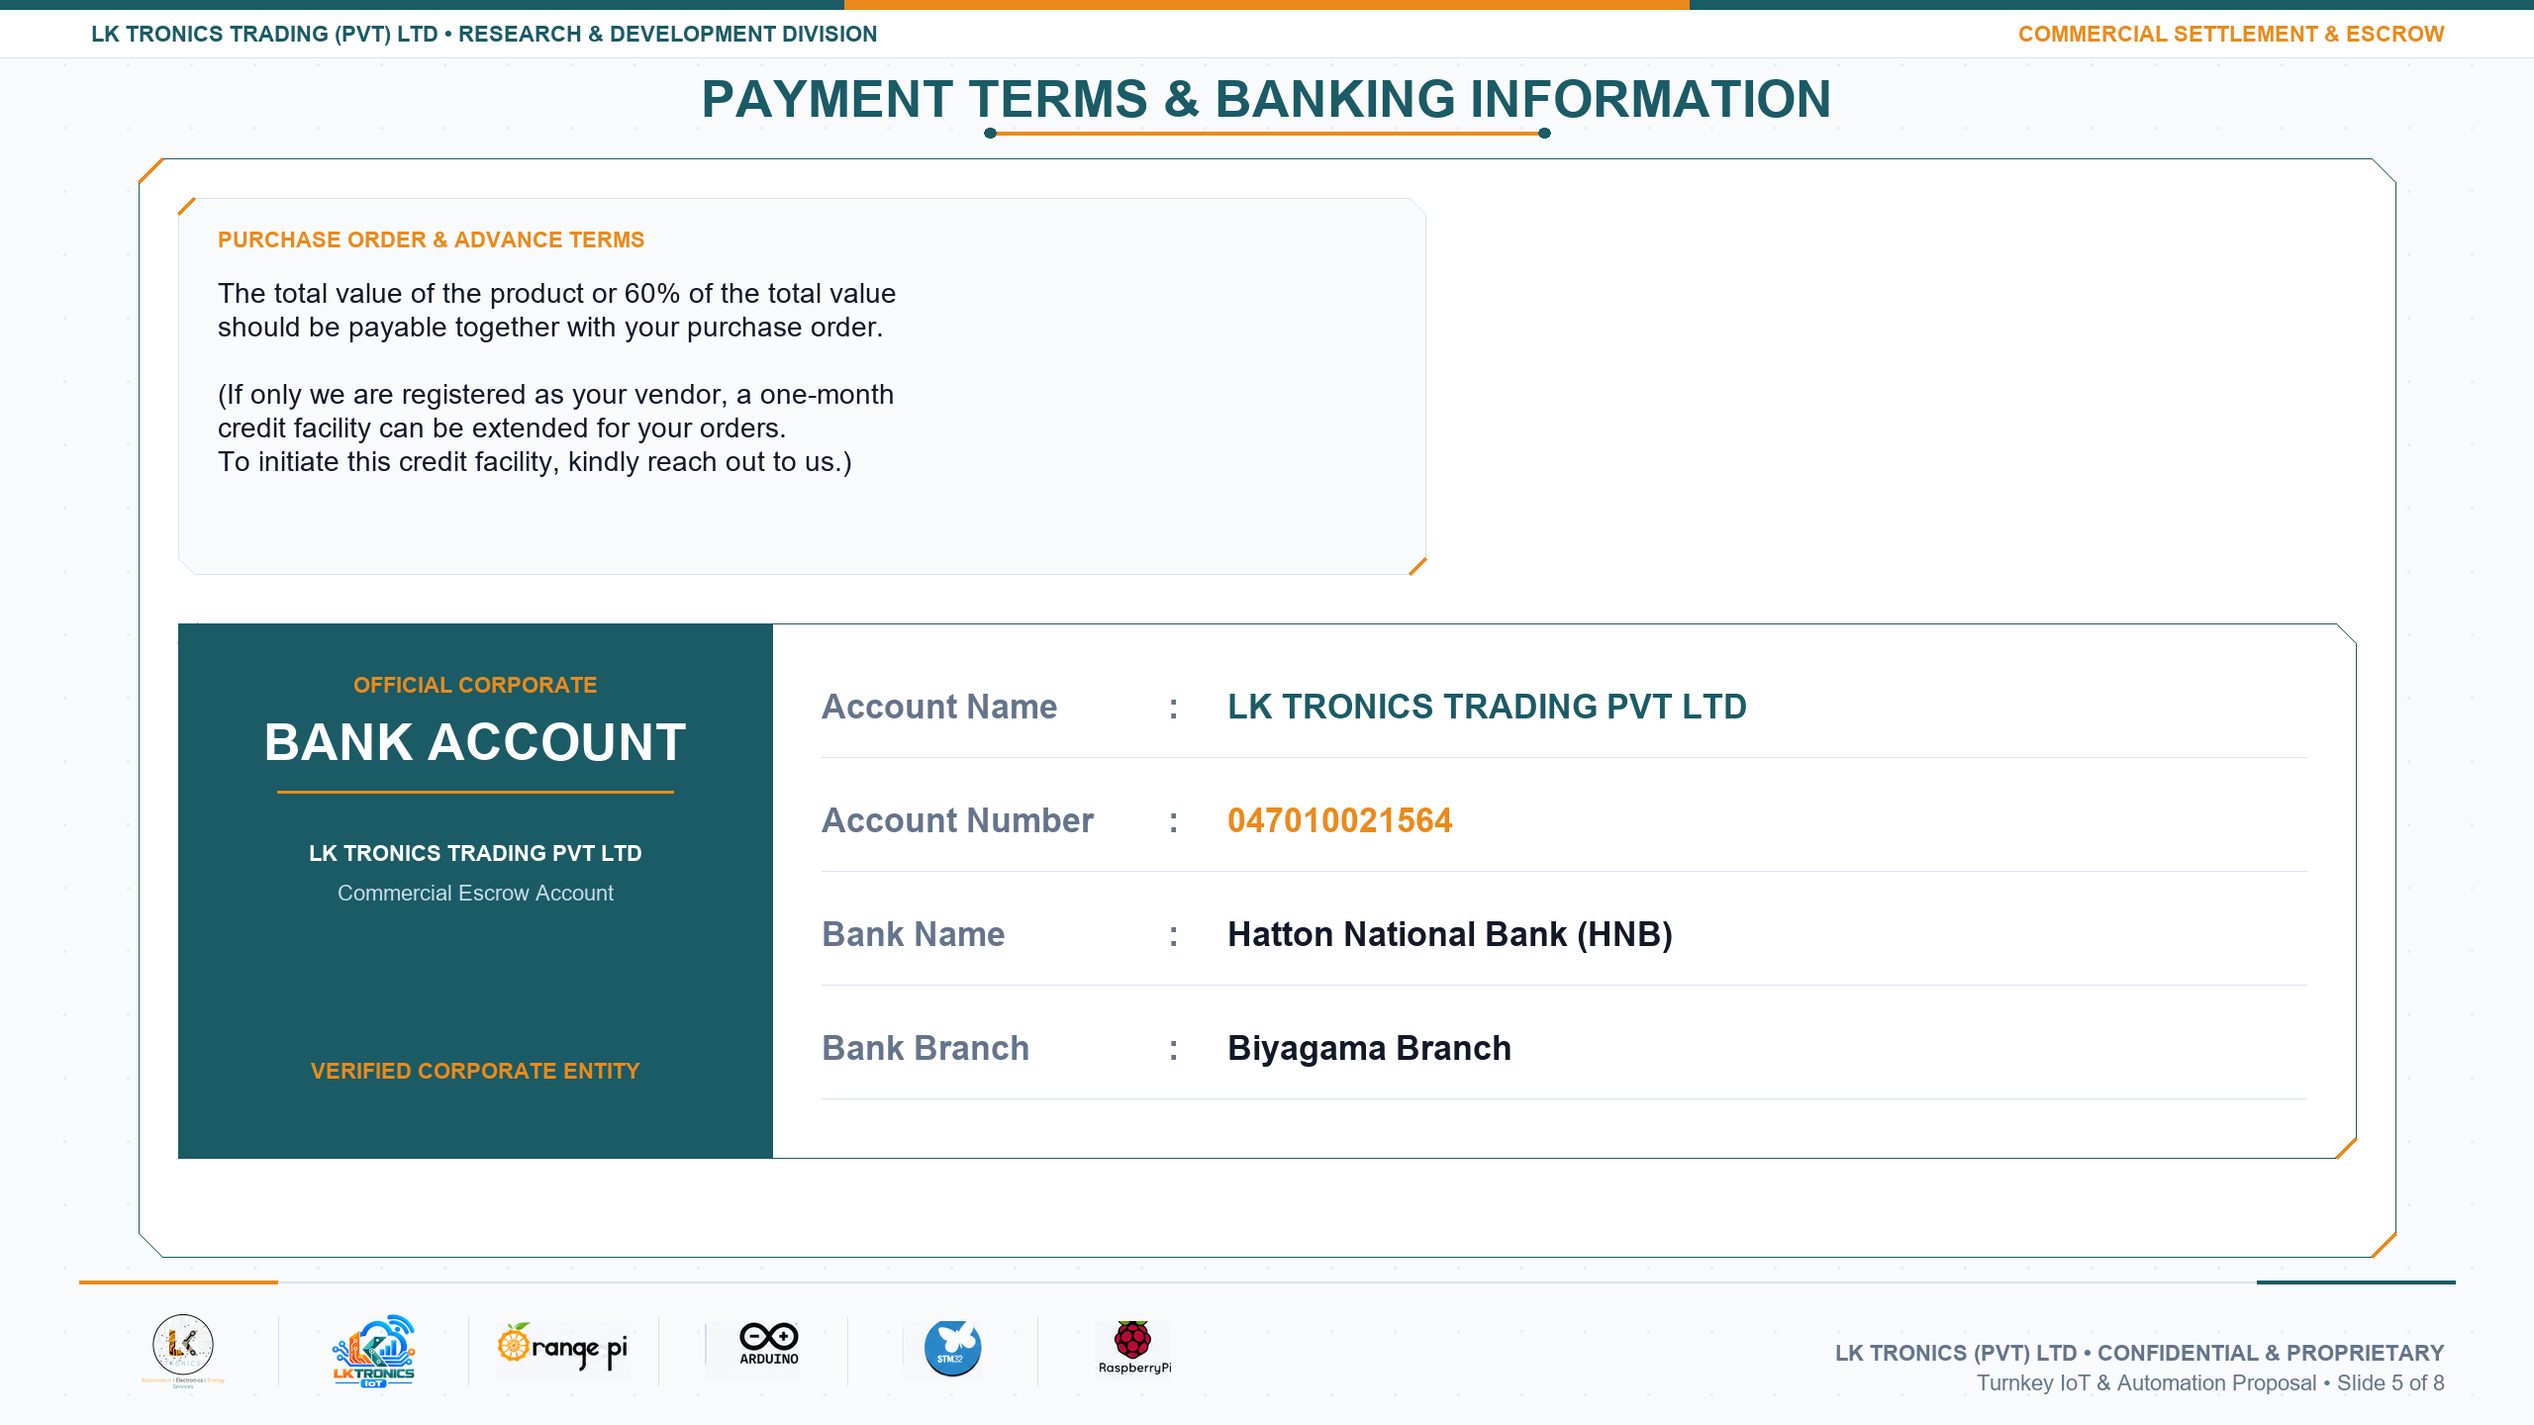
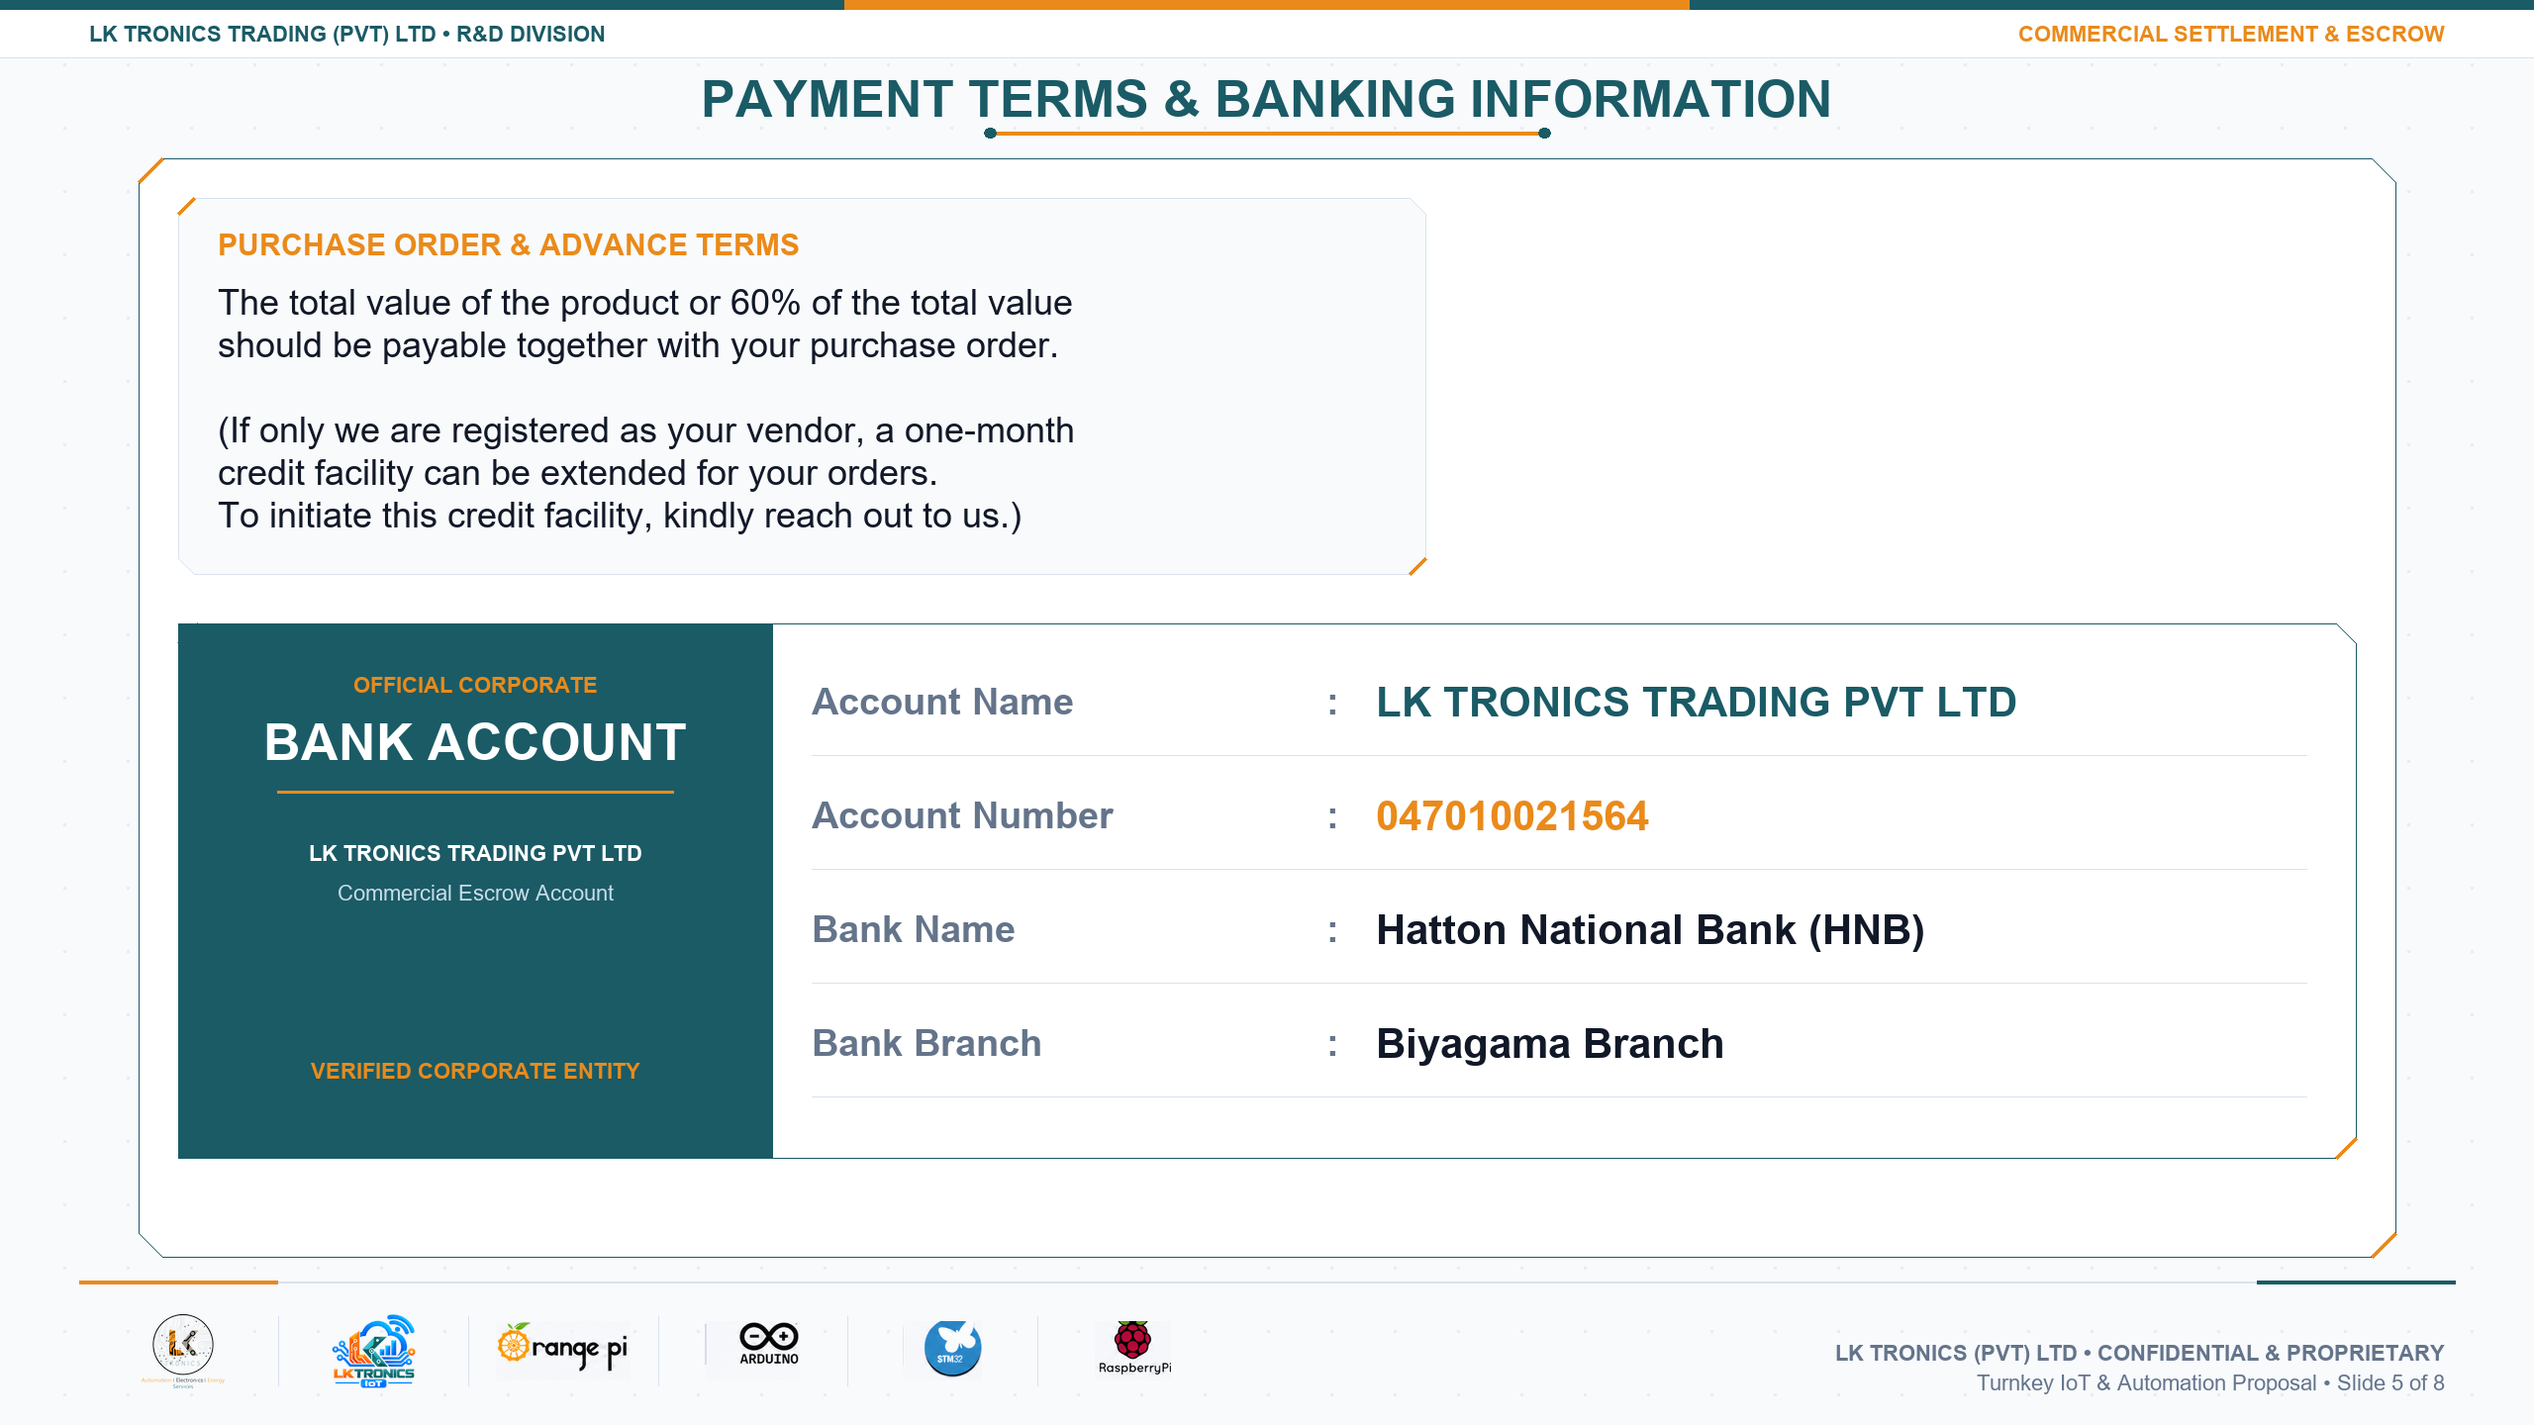
feat(proposal): match font size of Slide 1 cover and Slide 5 bank to 22pt Terms standard

diff --git a/src/lib/rdQuotationPdfGenerator.ts b/src/lib/rdQuotationPdfGenerator.ts
@@ -1036,27 +1036,39 @@ async function generateProjectProposalPdf(
 
   // 2. Prepared By - Removed from cover/main page per user requirement
 
-  // 3. Quotation To / Client Details (Center Column: X=190.5mm, Baseline Y=137.0mm)
+  // 3. Quotation To / Client Details (Center Column: X=190.5mm, Prominent 22pt bold matching Terms page)
   const quoToText = data.quotationTo || "Super Administrator";
+  let clientFontSize = 22.0;
   doc.setFont("helvetica", "bold");
-  doc.setFontSize(14);
+  doc.setFontSize(clientFontSize);
+  let quoToLines = doc.splitTextToSize(quoToText, 160.0);
+  if (Array.isArray(quoToLines) && quoToLines.length > 2) {
+    clientFontSize = 19.0;
+    doc.setFontSize(clientFontSize);
+    quoToLines = doc.splitTextToSize(quoToText, 160.0);
+  }
   doc.setTextColor(LK_SLATE[0], LK_SLATE[1], LK_SLATE[2]);
-  const quoToLines = doc.splitTextToSize(quoToText, 160.0);
-  doc.text(quoToLines, 190.5, 137.0, { lineHeightFactor: 1.25 });
+  doc.text(quoToLines, 190.5, 137.5, { lineHeightFactor: 1.22 });
 
-  // 4. Prepared Date (Center Column, Bottom Left: X=190.5mm, Baseline Y=180.0mm)
+  // 4. Prepared Date (Center Column, Bottom Left: X=190.5mm, Prominent 21pt bold)
   doc.setFont("helvetica", "bold");
-  doc.setFontSize(13.5);
+  doc.setFontSize(21.0);
   doc.setTextColor(LK_SLATE[0], LK_SLATE[1], LK_SLATE[2]);
   doc.text(data.preparedDate || "—", 190.5, 180.0);
 
-  // 5. Validity Period (Center Column, Bottom Right: X=273.8mm, Baseline Y=180.0mm)
+  // 5. Validity Period (Center Column, Bottom Right: X=273.8mm, Prominent 21pt bold)
   const valDays = data.validityDays ? `${data.validityDays} Days` : "4 Days";
   const expireStr = data.expireDate ? ` (Until ${data.expireDate})` : "";
+  const fullValText = `${valDays}${expireStr}`;
   doc.setFont("helvetica", "bold");
-  doc.setFontSize(13.5);
+  let valFontSize = 21.0;
+  doc.setFontSize(valFontSize);
+  if (doc.getTextWidth(fullValText) > 85.0) {
+    valFontSize = 18.5;
+    doc.setFontSize(valFontSize);
+  }
   doc.setTextColor(LK_ORANGE[0], LK_ORANGE[1], LK_ORANGE[2]);
-  doc.text(`${valDays}${expireStr}`, 273.8, 180.0);
+  doc.text(fullValText, 273.8, 180.0);
 
   // ==========================================
   // SLIDE 2: SYSTEM OVERVIEW & INTRODUCTION
@@ -1704,18 +1716,18 @@ async function generateProjectProposalPdf(
   }
 
   if (advancePercent !== 60) {
-    // Redraw the PO text box with custom percentage matching exact slide card coordinates
+    // Redraw the PO text box with custom percentage matching exact slide card coordinates (enlarged font)
     doc.setFillColor(248, 250, 252);
-    doc.rect(38.0, 42.0, 244.0, 70.0, "F");
+    doc.rect(38.0, 42.0, 244.0, 72.0, "F");
     doc.setFont("helvetica", "bold");
-    doc.setFontSize(14.0);
+    doc.setFontSize(20.0);
     doc.setTextColor(LK_ORANGE[0], LK_ORANGE[1], LK_ORANGE[2]);
-    doc.text("PURCHASE ORDER & ADVANCE TERMS", 44.0, 48.0);
+    doc.text("PURCHASE ORDER & ADVANCE TERMS", 44.0, 50.0);
     doc.setFont("helvetica", "normal");
-    doc.setFontSize(13.0);
+    doc.setFontSize(18.0);
     doc.setTextColor(LK_SLATE[0], LK_SLATE[1], LK_SLATE[2]);
     const clauseText = `The total value of the product or ${advancePercent}% of the total value\nshould be payable together with your purchase order.\n\n(If only we are registered as your vendor, a one-month\ncredit facility can be extended for your orders.\nTo initiate this credit facility, kindly reach out to us.)`;
-    doc.text(clauseText, 44.0, 56.0, { lineHeightFactor: 1.4 });
+    doc.text(clauseText, 44.0, 59.0, { lineHeightFactor: 1.35 });
   }
 
   // Resolve custom bank account for Slide 5
@@ -1749,7 +1761,7 @@ async function generateProjectProposalPdf(
     activeProposalBank.bankName !== LK_TRONICS_BANK_DETAILS.bankName;
 
   if (isCustomProposalBank) {
-    // Redraw Right Content Area of Bank Card on Slide 5
+    // Redraw Right Content Area of Bank Card on Slide 5 (enlarged font matching 22pt high-visibility standard)
     const bankRightX = 155.0;
     const bankRightY = 126.0;
     const bankRightW = 316.0;
@@ -1758,7 +1770,7 @@ async function generateProjectProposalPdf(
     doc.setFillColor(255, 255, 255);
     doc.rect(bankRightX, bankRightY, bankRightW, bankRightH, "F");
 
-    let bankRowY = bankRightY + 12.0;
+    let bankRowY = bankRightY + 14.0;
     const bankFields = [
       { label: "Account Name", val: activeProposalBank.accountName, color: LK_TEAL },
       { label: "Account Number", val: activeProposalBank.accountNumber, color: LK_ORANGE },
@@ -1768,22 +1780,22 @@ async function generateProjectProposalPdf(
 
     bankFields.forEach((field, fIdx) => {
       doc.setFont("helvetica", "bold");
-      doc.setFontSize(13.5);
+      doc.setFontSize(19.0);
       doc.setTextColor(LK_MUTED[0], LK_MUTED[1], LK_MUTED[2]);
-      doc.text(field.label, bankRightX + 10.0, bankRowY + 3.0);
-      doc.text(":", bankRightX + 70.0, bankRowY + 3.0);
+      doc.text(field.label, bankRightX + 10.0, bankRowY + 4.0);
+      doc.text(":", bankRightX + 78.0, bankRowY + 4.0);
 
       doc.setFont("helvetica", "bold");
-      doc.setFontSize(14.0);
+      doc.setFontSize(21.0);
       doc.setTextColor(field.color[0], field.color[1], field.color[2]);
-      doc.text(field.val, bankRightX + 80.0, bankRowY + 3.0);
+      doc.text(field.val, bankRightX + 88.0, bankRowY + 4.0);
 
       if (fIdx < bankFields.length - 1) {
         doc.setDrawColor(218, 225, 233);
         doc.setLineWidth(0.3);
-        doc.line(bankRightX + 10.0, bankRowY + 13.0, bankRightX + bankRightW - 10.0, bankRowY + 13.0);
+        doc.line(bankRightX + 10.0, bankRowY + 14.0, bankRightX + bankRightW - 10.0, bankRowY + 14.0);
       }
-      bankRowY += 22.0;
+      bankRowY += 23.0;
     });
   }
 

diff --git a/create_brand_templates.py b/create_brand_templates.py
@@ -171,31 +171,35 @@ def make_slide1():
     draw_chamfered_card(draw, 140, ref_y, W - 140, ref_y + ref_h, chamfer=20, fill=CARD_BG, stroke=BORDER_COLOR, width=2)
 
     # Left Column: Official Contact & Communication Channels (x from 180 to 920)
-    draw.text((180, ref_y + 65), "COMMUNICATION CHANNELS:", font=font_sm_bold, fill=LK_MUTED + (255,))
-    draw.text((180, ref_y + 115), "Email: rad@lk-tronics.com", font=font_body, fill=LK_SLATE + (255,))
-    draw.text((180, ref_y + 165), "Hotline: (+94) 77 739 4782 / 0114 215 515", font=font_body, fill=LK_SLATE + (255,))
-    draw.text((180, ref_y + 215), "Web: https://www.lk-tronics.com", font=font_body, fill=LK_TEAL_LIGHT + (255,))
-    draw.text((180, ref_y + 265), "Address: High-Level Road, Homagama, Sri Lanka", font=font_body, fill=LK_SLATE + (255,))
+    font_comm_header = ImageFont.truetype(os.path.join(FONT_DIR, "arialbd.ttf"), 26)
+    font_comm_text = ImageFont.truetype(os.path.join(FONT_DIR, "arial.ttf"), 32)
+    draw.text((180, ref_y + 55), "COMMUNICATION CHANNELS:", font=font_comm_header, fill=LK_MUTED + (255,))
+    draw.text((180, ref_y + 110), "Email: rad@lk-tronics.com", font=font_comm_text, fill=LK_SLATE + (255,))
+    draw.text((180, ref_y + 168), "Hotline: (+94) 77 739 4782 / 0114 215 515", font=font_comm_text, fill=LK_SLATE + (255,))
+    draw.text((180, ref_y + 226), "Web: https://www.lk-tronics.com", font=font_comm_text, fill=LK_TEAL_LIGHT + (255,))
+    draw.text((180, ref_y + 284), "Address: High-Level Road, Homagama, Sri Lanka", font=font_comm_text, fill=LK_SLATE + (255,))
 
     # Divider 1
     draw.line([(920, ref_y + 30), (920, ref_y + ref_h - 30)], fill=BORDER_COLOR + (255,), width=2)
 
     # Center Column: Quotation To, Prepared Date & Validity Period (x from 960 to 1800)
-    draw.text((960, ref_y + 35), "QUOTATION TO / CLIENT DETAILS:", font=font_sm_bold, fill=LK_MUTED + (255,))
-    # (jsPDF prints dynamic data.quotationTo here in bold LK Slate at Y=137.0mm)
+    font_meta_header = ImageFont.truetype(os.path.join(FONT_DIR, "arialbd.ttf"), 26)
+    font_meta_sub = ImageFont.truetype(os.path.join(FONT_DIR, "arial.ttf"), 24)
+    draw.text((960, ref_y + 35), "QUOTATION TO / CLIENT DETAILS:", font=font_meta_header, fill=LK_MUTED + (255,))
+    # (jsPDF prints dynamic data.quotationTo here in bold LK Slate at Y=137.5mm at 22pt)
 
     # Inner horizontal divider in Center Column
     draw.line([(960, ref_y + 225), (1780, ref_y + 225)], fill=BORDER_COLOR + (255,), width=1)
 
     # Sub-col A: Prepared Date
-    draw.text((960, ref_y + 250), "PREPARED DATE:", font=font_sm_bold, fill=LK_MUTED + (255,))
-    draw.text((960, ref_y + 342), "Official Issue Date", font=font_sm, fill=LK_MUTED + (255,))
-    # (jsPDF prints dynamic data.preparedDate here at Y=180.0mm)
+    draw.text((960, ref_y + 245), "PREPARED DATE:", font=font_meta_header, fill=LK_MUTED + (255,))
+    draw.text((960, ref_y + 348), "Official Issue Date", font=font_meta_sub, fill=LK_MUTED + (255,))
+    # (jsPDF prints dynamic data.preparedDate here at Y=180.0mm at 21pt)
 
     # Sub-col B: Validity Period
-    draw.text((1380, ref_y + 250), "VALIDITY PERIOD:", font=font_sm_bold, fill=LK_MUTED + (255,))
-    draw.text((1380, ref_y + 342), "Commercial Validity Term", font=font_sm, fill=LK_MUTED + (255,))
-    # (jsPDF prints dynamic validity period here at Y=180.0mm)
+    draw.text((1380, ref_y + 245), "VALIDITY PERIOD:", font=font_meta_header, fill=LK_MUTED + (255,))
+    draw.text((1380, ref_y + 348), "Commercial Validity Term", font=font_meta_sub, fill=LK_MUTED + (255,))
+    # (jsPDF prints dynamic validity period here at Y=180.0mm at 21pt)
 
     # Divider 2
     draw.line([(1815, ref_y + 30), (1815, ref_y + ref_h - 30)], fill=BORDER_COLOR + (255,), width=2)
@@ -309,7 +313,9 @@ def make_slide5():
 
     # Left Box: Payment Terms & Credit Facility
     draw_chamfered_card(draw, 180, 200, 1440, 580, chamfer=16, fill=(248, 250, 252), stroke=BORDER_COLOR, width=2)
-    draw.text((220, 230), "PURCHASE ORDER & ADVANCE TERMS", font=font_sm_bold, fill=LK_ORANGE + (255,))
+    font_po_title = ImageFont.truetype(os.path.join(FONT_DIR, "arialbd.ttf"), 30)
+    font_po_body = ImageFont.truetype(os.path.join(FONT_DIR, "arial.ttf"), 36)
+    draw.text((220, 230), "PURCHASE ORDER & ADVANCE TERMS", font=font_po_title, fill=LK_ORANGE + (255,))
     default_clause = (
         "The total value of the product or 60% of the total value\n"
         "should be payable together with your purchase order.\n\n"
@@ -317,7 +323,7 @@ def make_slide5():
         "credit facility can be extended for your orders.\n"
         "To initiate this credit facility, kindly reach out to us.)"
     )
-    draw.text((220, 280), default_clause, font=font_body, fill=LK_SLATE + (255,), spacing=8)
+    draw.text((220, 285), default_clause, font=font_po_body, fill=LK_SLATE + (255,), spacing=10)
 
     # Right Box: Corporate Banking Card (Hatton National Bank)
     bank_x1, bank_y1, bank_x2, bank_y2 = 180, 630, W - 180, 1170
@@ -333,8 +339,10 @@ def make_slide5():
     draw.text((bank_x1 + 300, bank_y1 + 260), "Commercial Escrow Account", font=font_sm, fill=(200, 220, 230, 255), anchor="ma")
     draw.text((bank_x1 + 300, bank_y1 + 440), "VERIFIED CORPORATE ENTITY", font=font_sm_bold, fill=LK_ORANGE + (255,), anchor="ma")
 
-    # Right Content Area of Bank Card
-    row_y = bank_y1 + 50
+    # Right Content Area of Bank Card (Enlarged to match 22pt high-visibility standard)
+    font_bank_label = ImageFont.truetype(os.path.join(FONT_DIR, "arialbd.ttf"), 38)
+    font_bank_val = ImageFont.truetype(os.path.join(FONT_DIR, "arialbd.ttf"), 42)
+    row_y = bank_y1 + 45
     fields = [
         ("Account Name", "LK TRONICS TRADING PVT LTD", LK_TEAL),
         ("Account Number", "047010021564", LK_ORANGE),
@@ -343,10 +351,10 @@ def make_slide5():
     ]
 
     for label, val, color in fields:
-        draw.text((bank_x1 + 650, row_y + 15), label, font=font_section, fill=LK_MUTED + (255,))
-        draw.text((bank_x1 + 1000, row_y + 15), ":", font=font_section, fill=LK_MUTED + (255,))
-        draw.text((bank_x1 + 1060, row_y + 15), val, font=font_section, fill=color + (255,))
-        draw.line([(bank_x1 + 650, row_y + 85), (bank_x2 - 50, row_y + 85)], fill=BORDER_COLOR + (255,), width=1)
+        draw.text((bank_x1 + 640, row_y + 12), label, font=font_bank_label, fill=LK_MUTED + (255,))
+        draw.text((bank_x1 + 1160, row_y + 12), ":", font=font_bank_label, fill=LK_MUTED + (255,))
+        draw.text((bank_x1 + 1210, row_y + 10), val, font=font_bank_val, fill=color + (255,))
+        draw.line([(bank_x1 + 640, row_y + 88), (bank_x2 - 50, row_y + 88)], fill=BORDER_COLOR + (255,), width=1)
         row_y += 115
 
     out_path = os.path.join(OUT_DIR, "brand_slide5_bank.png")
